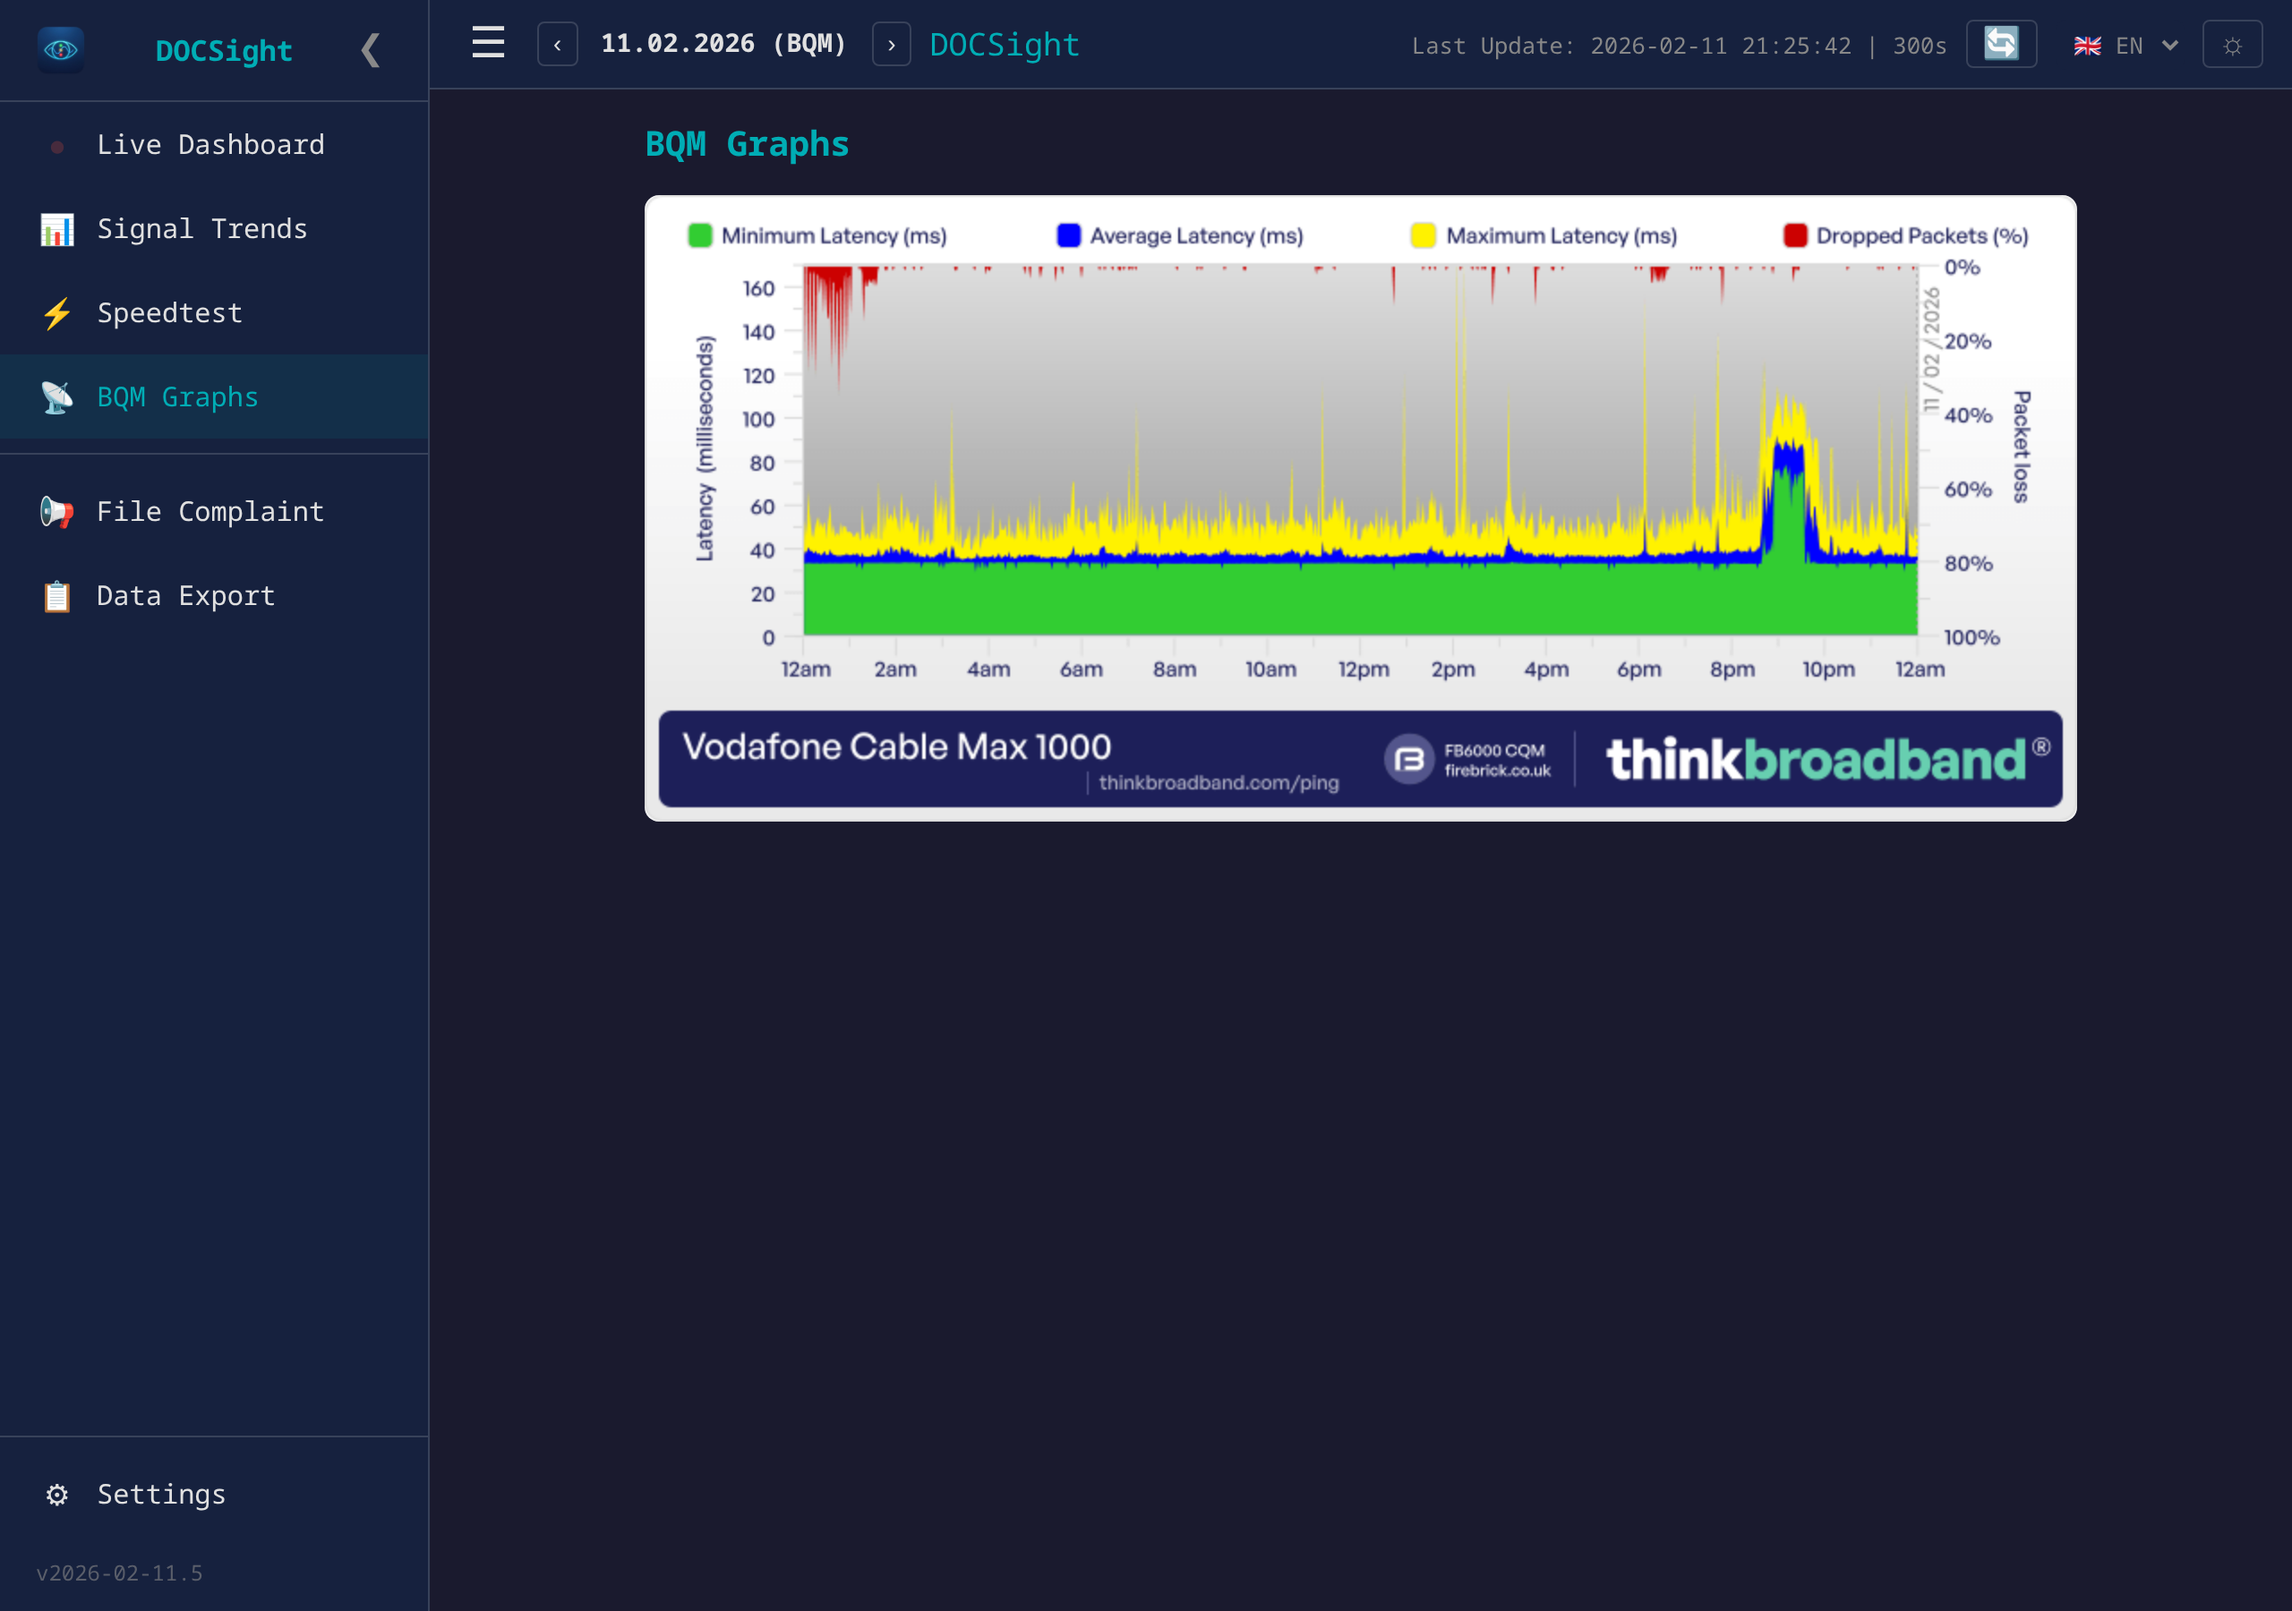
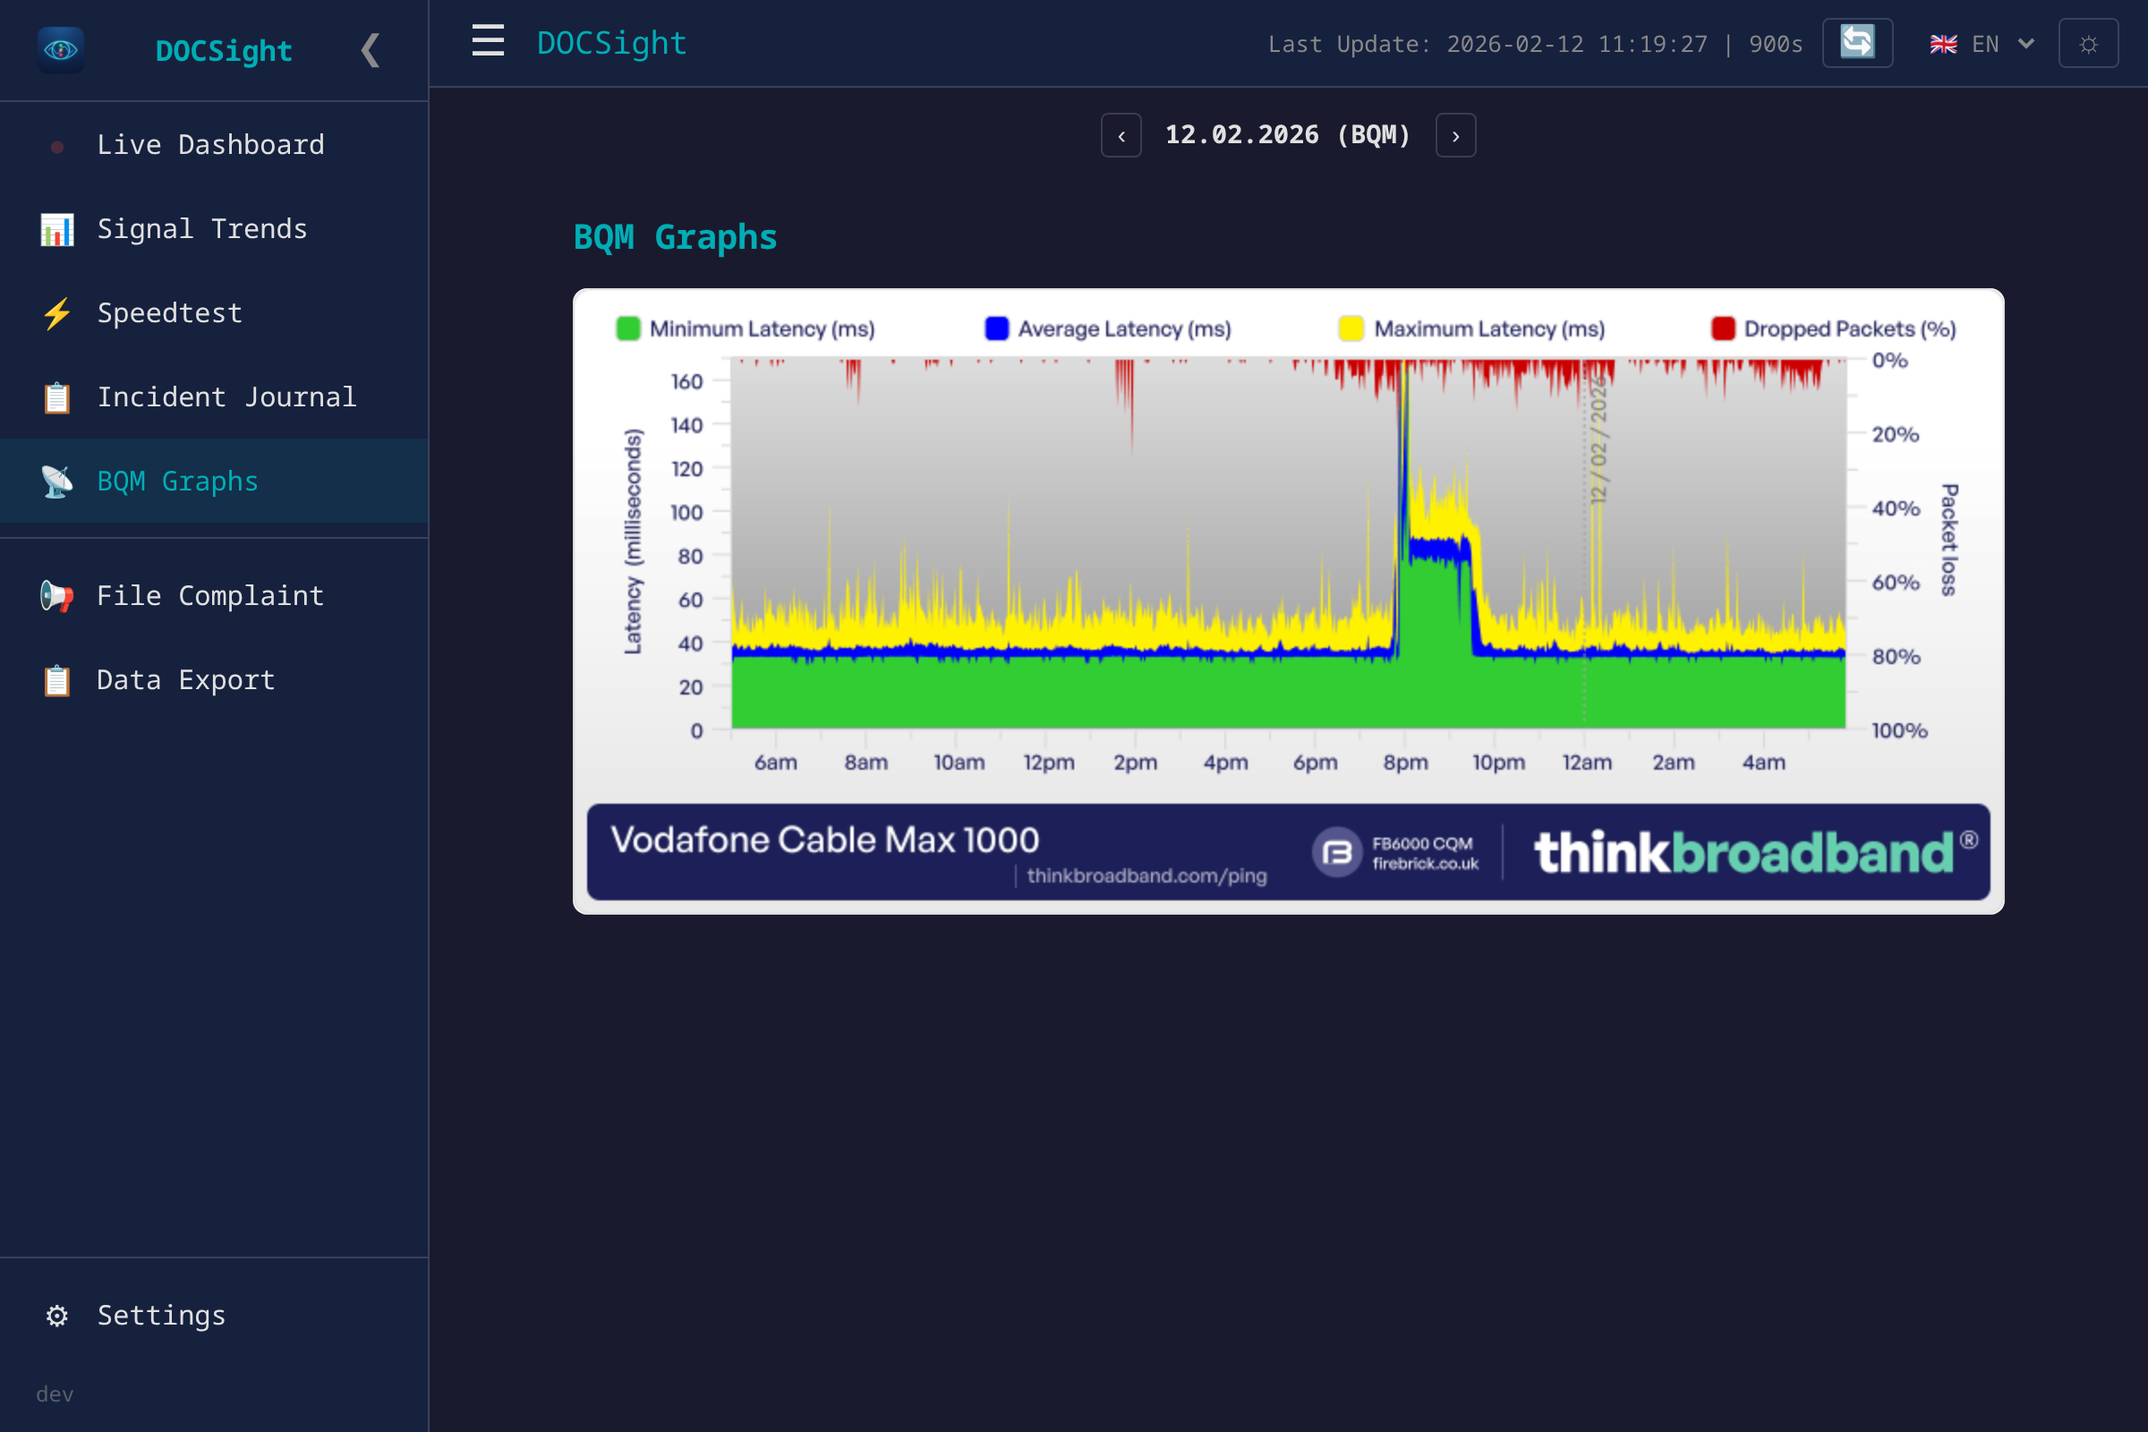
Update all screenshots for v2026-02-12.2, add journal screenshot

diff --git a/README.md b/README.md
@@ -171,6 +171,10 @@ Copy `.env.example` to `.env` and edit:
 |---|---|
 | ![Speedtest](docs/screenshots/speedtest.png) | ![BQM](docs/screenshots/bqm.png) |
 
+| Incident Journal |
+|---|
+| ![Journal](docs/screenshots/journal.png) |
+
 </details>
 
 <details>
